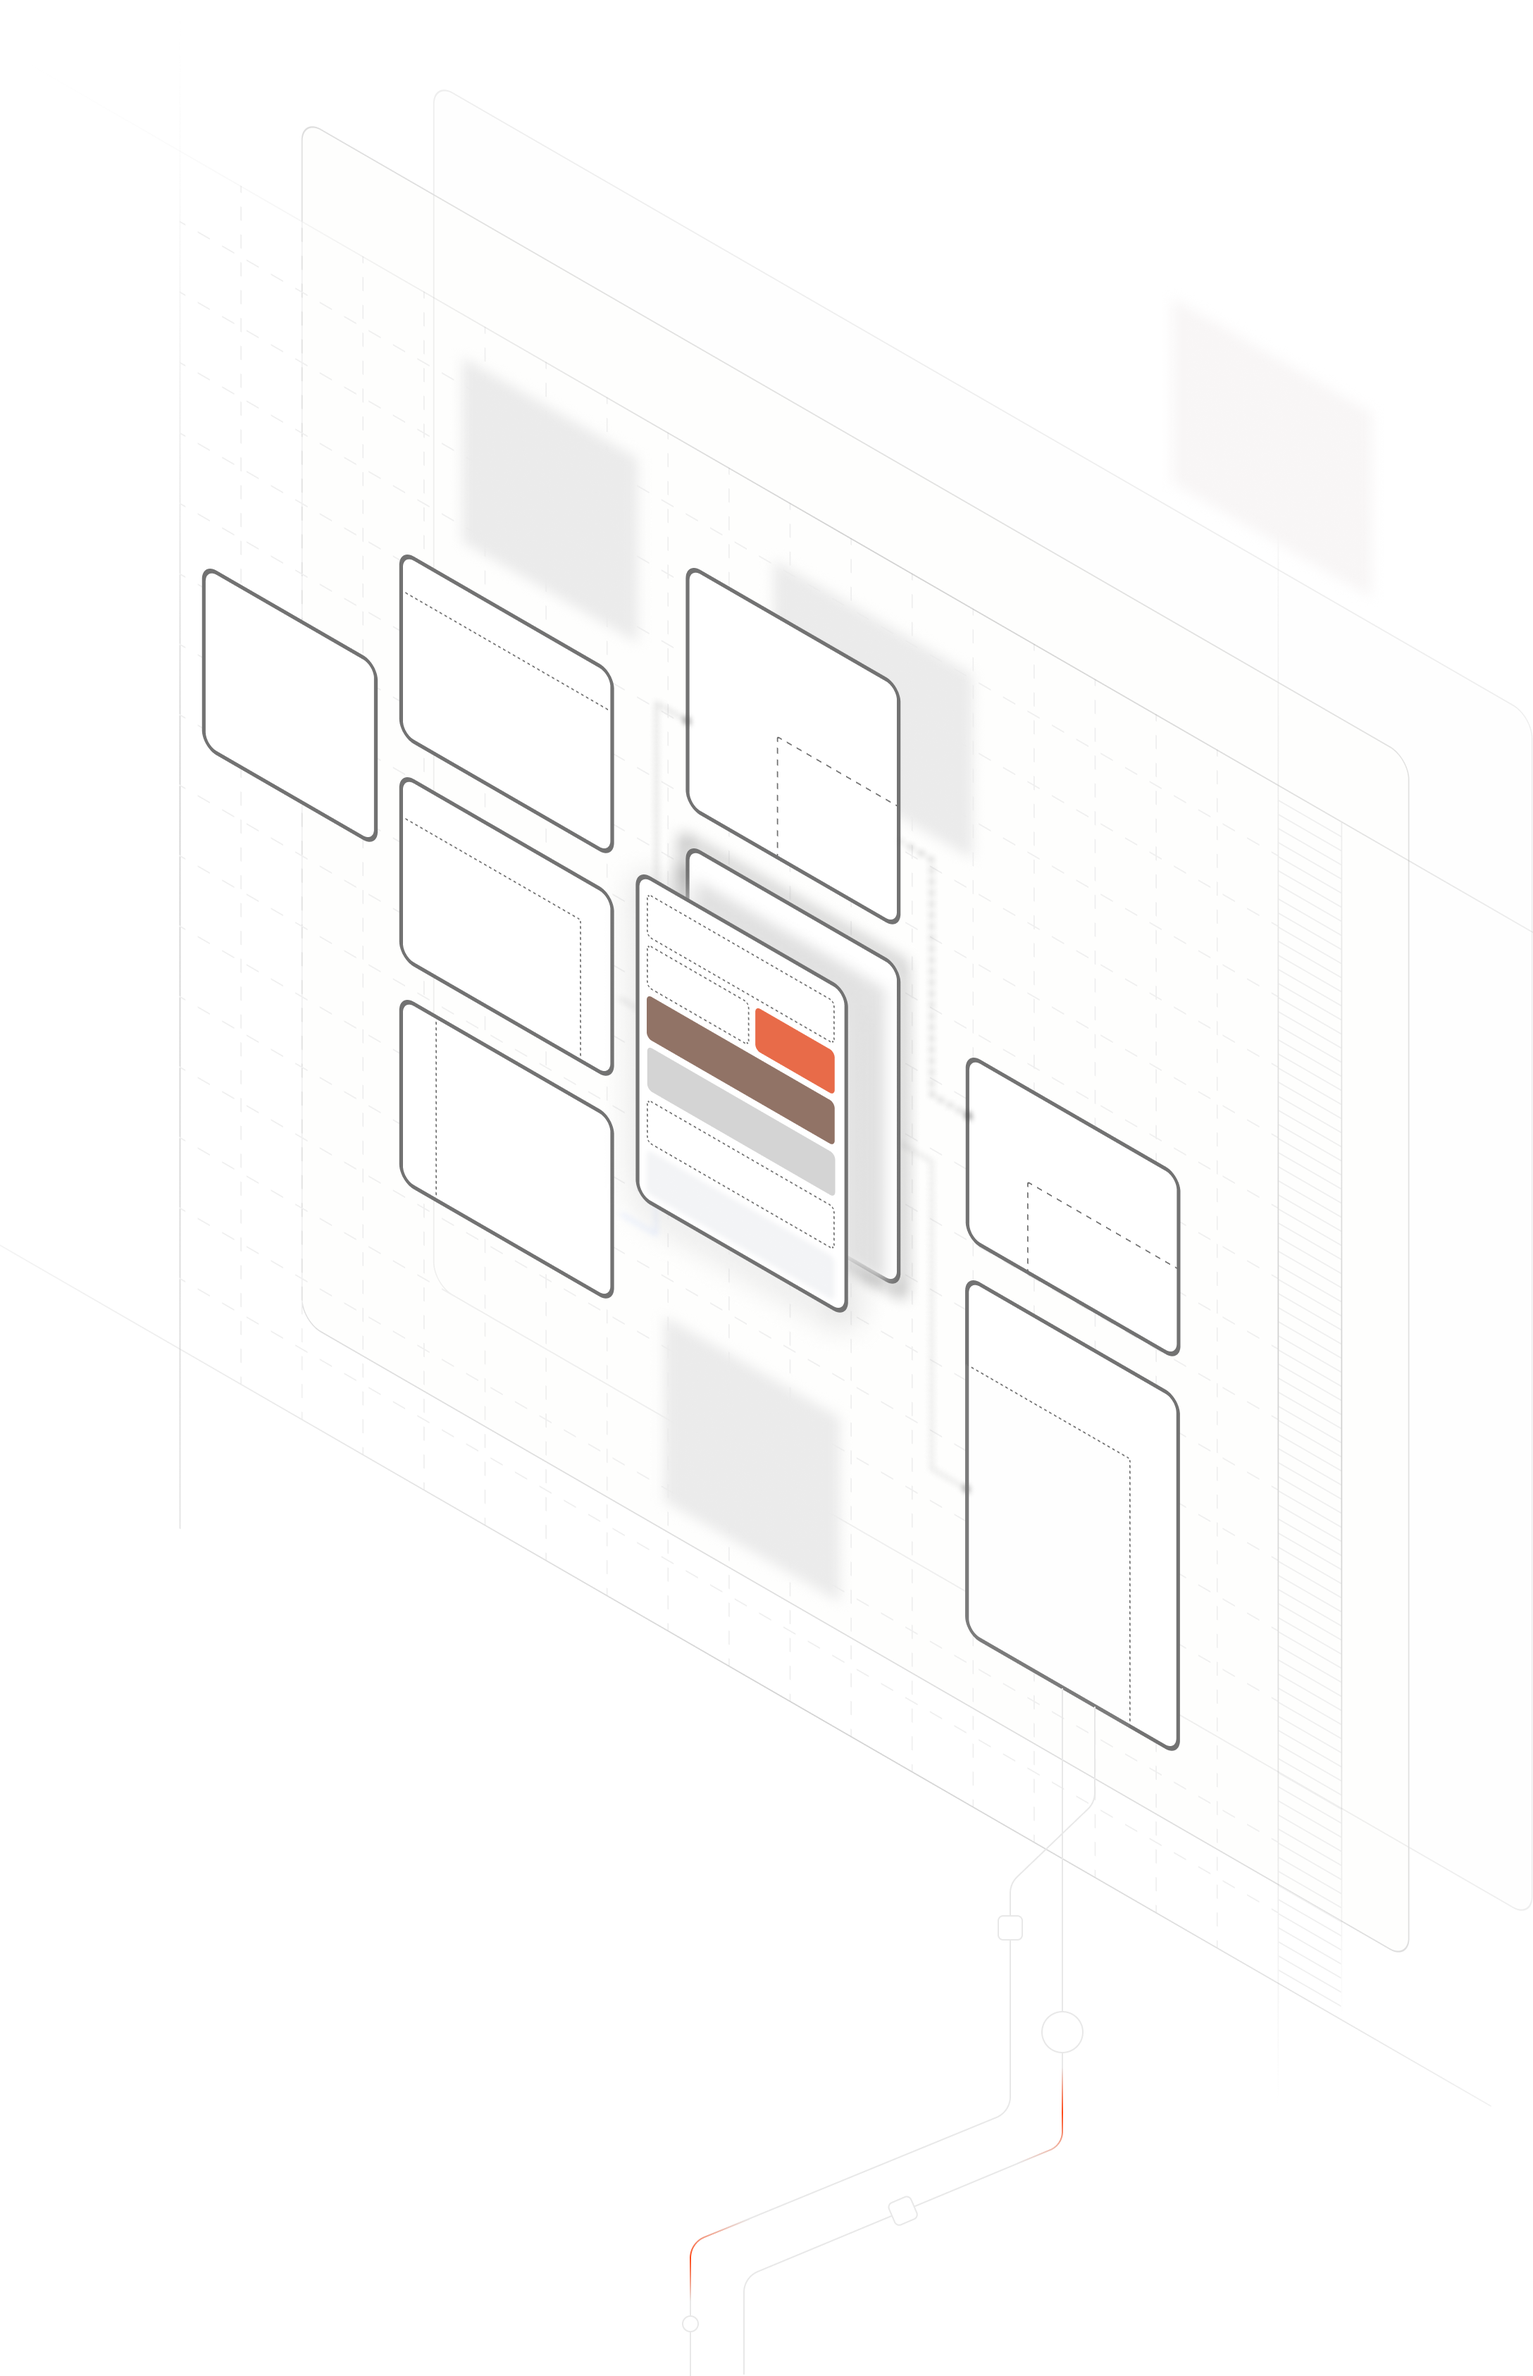
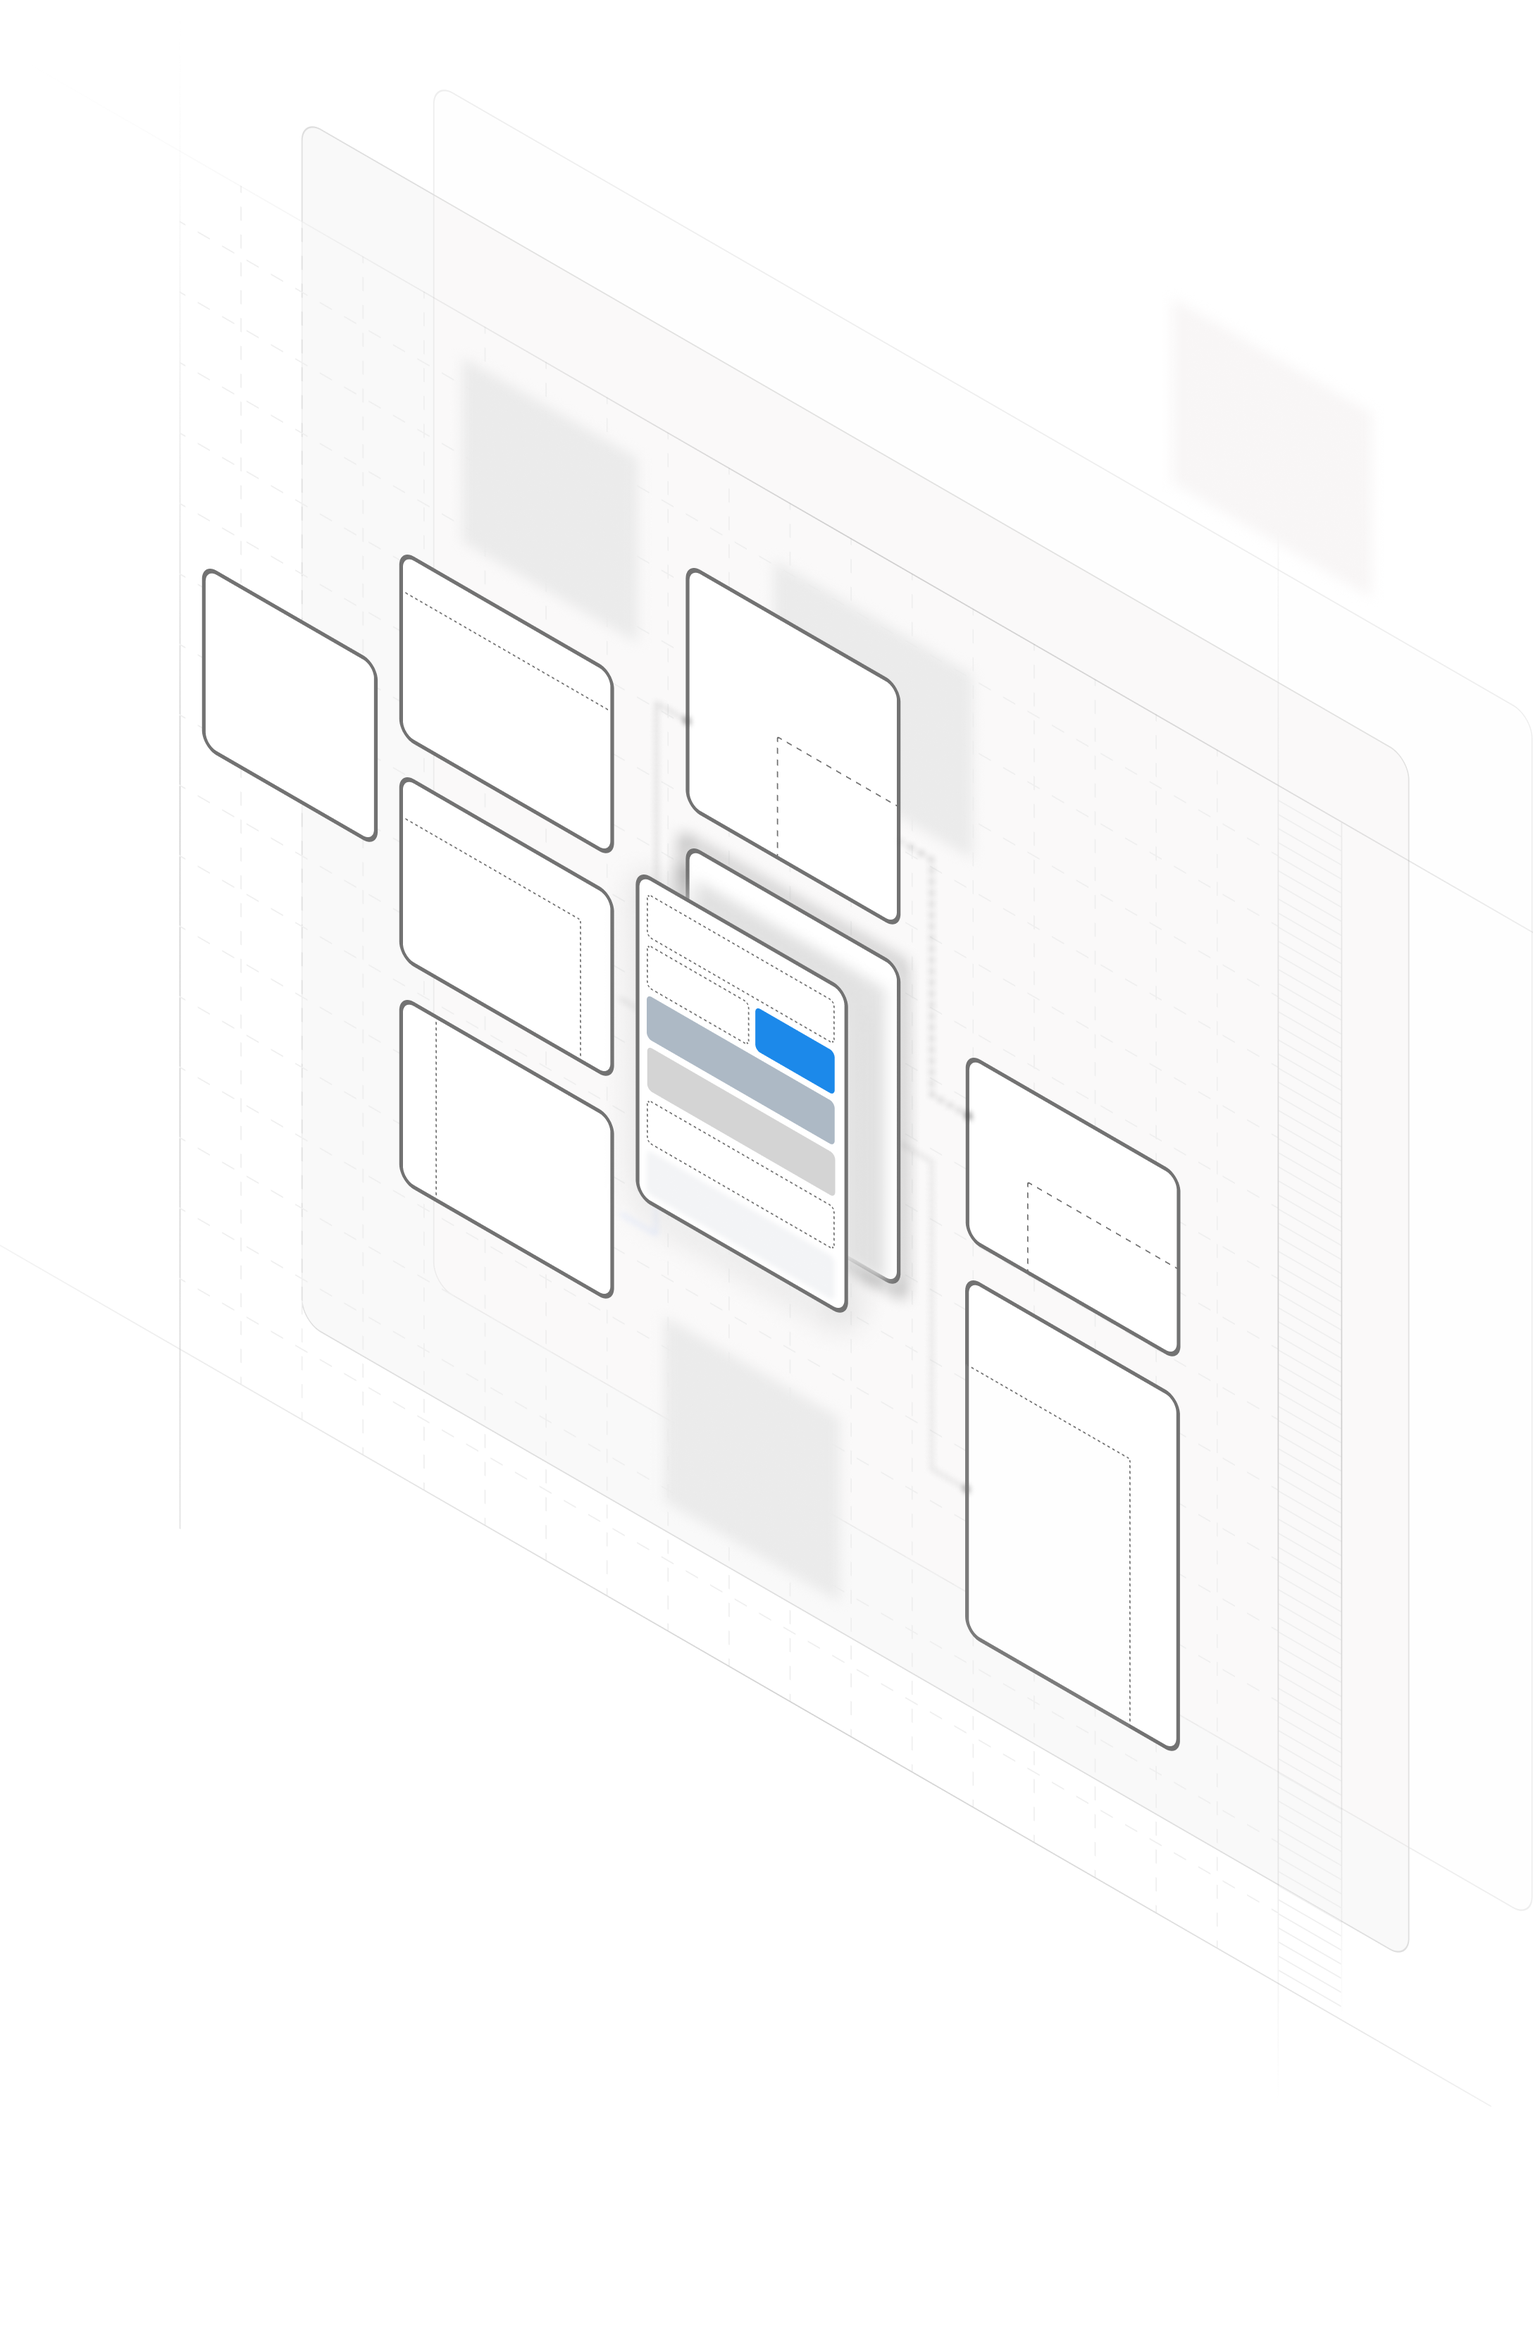
update homepage color

diff --git a/src/pages/index.module.css b/src/pages/index.module.css
@@ -33,9 +33,9 @@
     padding: 6px 16px;
     border-radius: 10px;
     margin: 5px 5px 5px;
-    background: white;
-    color: #5b5b5b;
-    border: 1px solid rgba(215, 215, 215);
+    background: var(--button-secondary-bg);
+    color: var(--button-secondary-font);
+    border: 1px solid var(--button-secondary-border);
     font-family: Poppins, sans-serif;
     transition: all .25s;
     cursor: pointer;
@@ -44,22 +44,22 @@
 }
 
 .scopeBtnPrimary {
-    background: rgb(73 64 60);
-    color: white;
-    border: none;
+    background: var(--button-primary-bg);
+    color: var(--button-primary-font);
+    border: 1px solid var(--button-primary-border);
 }
 
 .scopeBtn:hover {
-    color: #5b5b5b;
+    color: var(--button-secondary-font);
+    box-shadow: 0 10px 20px -10px var(--button-secondary-font);
     text-decoration: none;
-    box-shadow: 0 10px 20px -10px rgba(215, 215, 215);
     transform: translateY(-3px);
 }
 
 .scopeBtnPrimary:hover {
-    color: white;
+    color: var(--button-primary-font);
+    box-shadow: 0 10px 20px -10px var(--button-primary-font);
     text-decoration: none;
-    box-shadow: 0 10px 20px -10px rgb(73 64 60);
     transform: translateY(-3px);
 }
 
@@ -92,12 +92,13 @@
             font-size: 4.6vw;
 
             .scopeBannerBrand {
-                color: rgba(0, 115, 213);
+                color: var(--font-brand);
             }
         }
 
         .scopeBannerIntro {
             font-size: 1.2vw;
+            color: var(--font-secondary);
         }
 
     }

diff --git a/src/css/custom.css b/src/css/custom.css
@@ -4,6 +4,22 @@
     --docusaurus-highlighted-code-line-bg: rgba(0, 0, 0, 0.1);
     --ifm-footer-background-color: rgba(115, 150, 233, 0.61);
     --global-padding: 10vw;
+
+    --font-primary: rgba(24, 24, 24);
+    --font-secondary: rgba(91, 91, 91);
+    --font-tertiary: rgba(181, 181, 181);
+    --font-brand: rgba(53, 119, 217);
+
+    --button-primary-bg: rgba(33, 34, 34);
+    --button-primary-border: rgba(33, 34, 34);
+    --button-primary-font: rgba(255, 255, 255);
+    --button-secondary-bg: rgba(255, 255, 255);
+    --button-secondary-border: rgba(215, 215, 215);
+    --button-secondary-font: rgba(91, 91, 91);
+
+    --color-background: rgba(255, 255, 255);
+    --color-module: rgba(247, 247, 247);
+    --color-brand: rgba(53, 119, 217);
 }
 
 [data-theme='dark'] {
